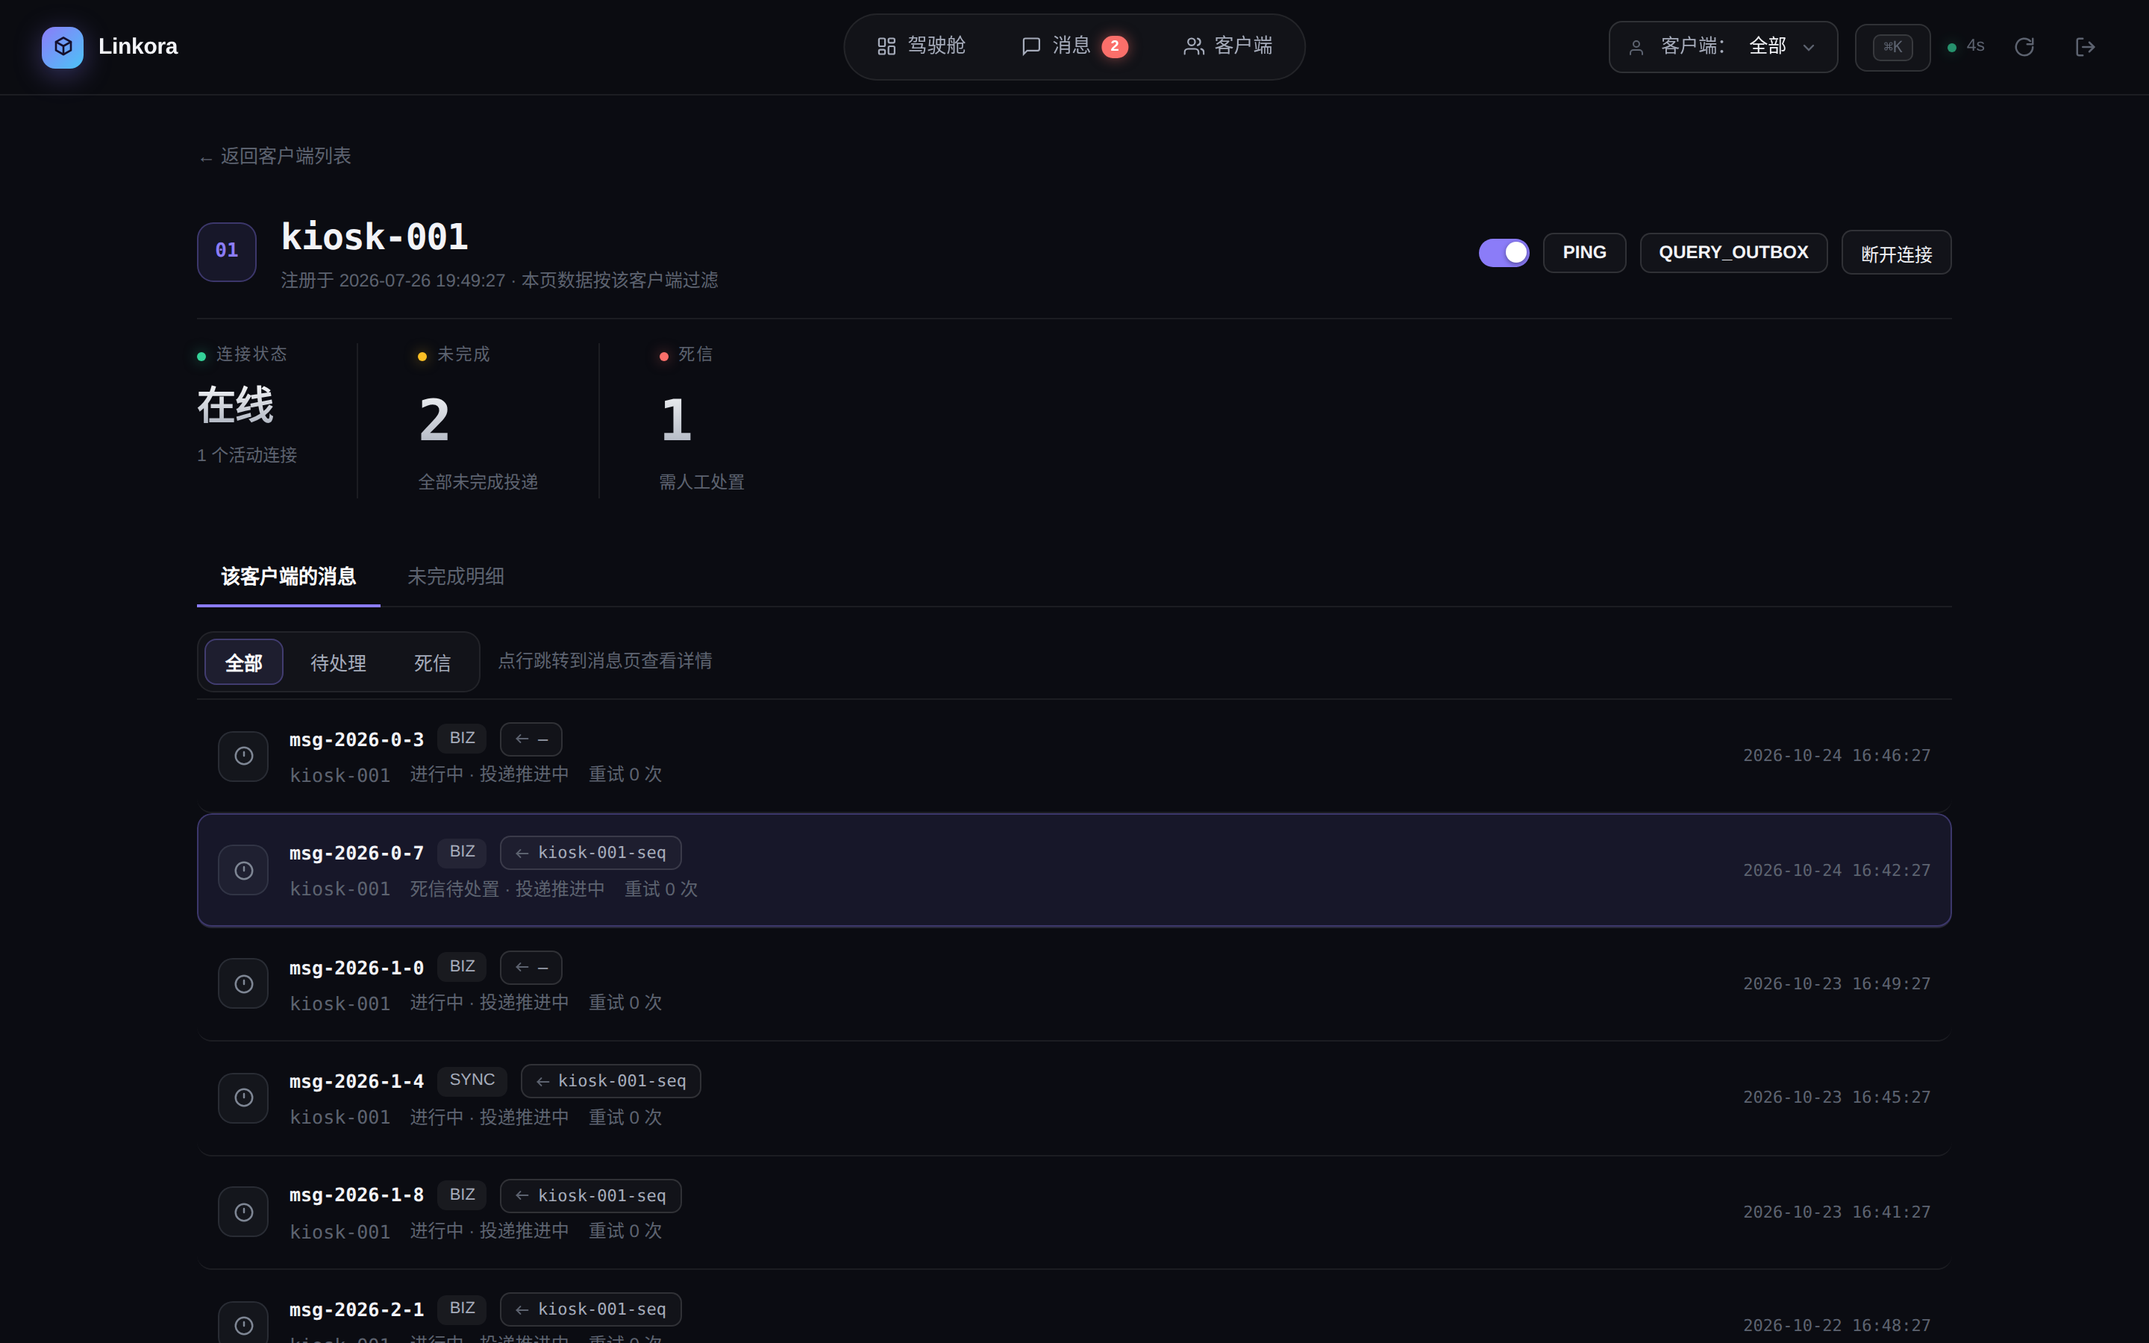
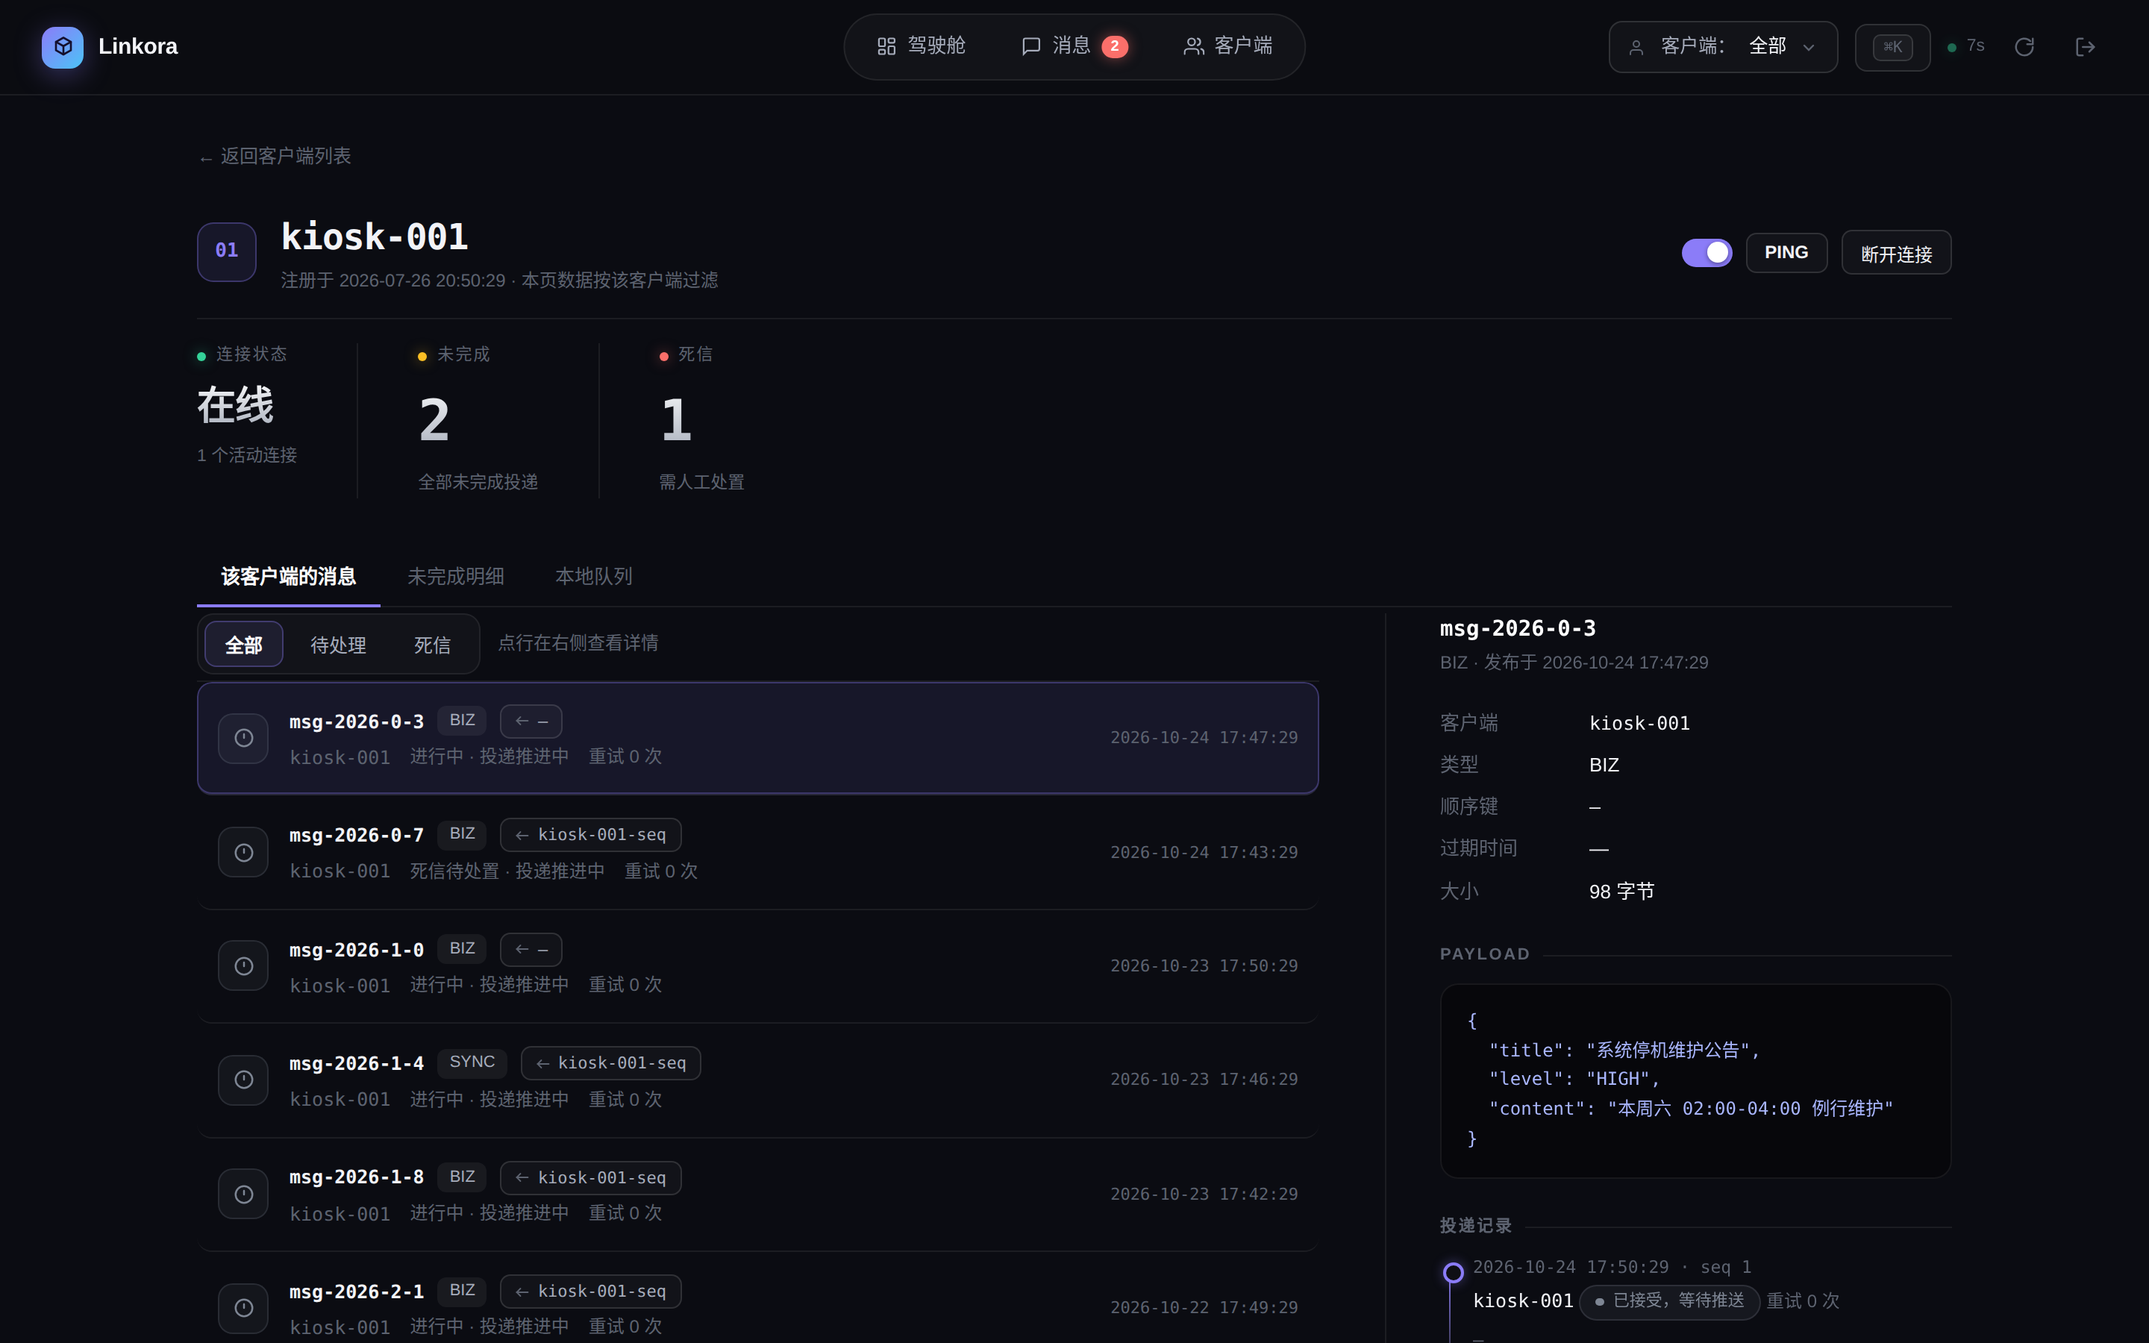
feat：客户端详情页主从双栏——消息与本地队列点行页内看详情，不再跳页
- 「该客户端的消息」与「本地队列」统一改造为左列表 + 右详情（sticky），
  与服务端消息页同一交互范式；未完成明细行也可点开详情
- 本地队列详情：快照字段（状态/重试/大小/时间）+ payload 预览 + 快照语义说明
- 消息/未完成/本地队列三种详情渲染共用同一渲染器；窄屏自动降级覆盖层
- Esc/复制入口对齐

diff --git a/linkora-admin-console/src/main/resources/linkora-admin-console/index.html b/linkora-admin-console/src/main/resources/linkora-admin-console/index.html
@@ -476,33 +476,48 @@ footer.ver{margin-top:30px;text-align:center;font-size:11.5px;color:var(--ink-3)
       <button data-t="unfinished" onclick="setCdTab('unfinished')">未完成明细</button>
       <button data-t="outbox" onclick="setCdTab('outbox')">本地队列</button>
     </div>
-    <div style="display:flex;align-items:center;gap:12px;margin:16px 0 4px" id="cdSegWrap">
-      <div class="seg" id="cdSeg">
-        <button class="on" onclick="setCdSeg('all')">全部</button>
-        <button onclick="setCdSeg('run')">待处理</button>
-        <button class="dead" onclick="setCdSeg('dead')">死信</button>
+    <div class="msg-split" style="margin-top:4px">
+      <div>
+        <div id="cdSegWrap" style="display:flex;align-items:center;gap:12px;margin:0 0 4px">
+          <div class="seg" id="cdSeg">
+            <button class="on" onclick="setCdSeg('all')">全部</button>
+            <button onclick="setCdSeg('run')">待处理</button>
+            <button class="dead" onclick="setCdSeg('dead')">死信</button>
+          </div>
+          <span class="weak">点行在右侧查看详情</span>
+        </div>
+        <div class="rows" id="cdList"></div>
+        <div id="cdUnfinished" style="display:none"></div>
+        <div id="cdOutbox" style="display:none">
+          <div class="filterbar">
+            <select id="obStatus">
+              <option value="">全部状态</option>
+              <option value="PENDING">待发送</option>
+              <option value="SENDING">发送中</option>
+              <option value="SERVER_ACCEPTED">服务端已接受</option>
+              <option value="FAILED">发送失败</option>
+              <option value="DEAD_LETTER">死信</option>
+            </select>
+            <button class="btn btn-primary btn-sm" id="obPullBtn" onclick="pullOutbox()">拉取本地队列</button>
+            <span class="weak" id="obHint">拉取的是客户端在线瞬间的本地快照，不会自动更新</span>
+          </div>
+          <div class="rows" id="obRows"></div>
+          <details style="margin-top:14px"><summary class="weak" style="cursor:pointer">原始回执 JSON</summary>
+            <div class="codeblock" id="obRaw" style="margin-top:10px"></div>
+          </details>
+        </div>
       </div>
-      <span class="weak">点行跳转到消息页查看详情</span>
-    </div>
-    <div class="rows" id="cdList"></div>
-    <div id="cdUnfinished" style="display:none"></div>
-    <div id="cdOutbox" style="display:none">
-      <div class="filterbar">
-        <select id="obStatus">
-          <option value="">全部状态</option>
-          <option value="PENDING">待发送</option>
-          <option value="SENDING">发送中</option>
-          <option value="SERVER_ACCEPTED">服务端已接受</option>
-          <option value="FAILED">发送失败</option>
-          <option value="DEAD_LETTER">死信</option>
-        </select>
-        <button class="btn btn-primary btn-sm" id="obPullBtn" onclick="pullOutbox()">拉取本地队列</button>
-        <span class="weak" id="obHint">拉取的是客户端在线瞬间的本地快照，不会自动更新</span>
+      <div class="md" id="cdMd">
+        <div class="md-head">
+          <div><h3 id="cdMdTitle" onclick="copyText(this.textContent)" title="点击复制">从左侧选择</h3><span class="weak" id="cdMdSub"></span></div>
+          <button class="icon-btn md-close" onclick="closeCdDetail()" title="关闭">
+            <svg viewBox="0 0 24 24" fill="none" stroke="currentColor" stroke-width="2" stroke-linecap="round"><line x1="18" y1="6" x2="6" y2="18"/><line x1="6" y1="6" x2="18" y2="18"/></svg>
+          </button>
+        </div>
+        <div id="cdMdBody">
+          <div class="empty"><p>点行在此查看详情</p></div>
+        </div>
       </div>
-      <div class="rows" id="obRows"></div>
-      <details style="margin-top:14px"><summary class="weak" style="cursor:pointer">原始回执 JSON</summary>
-        <div class="codeblock" id="obRaw" style="margin-top:10px"></div>
-      </details>
     </div>
     <div id="cdCmdResult" class="codeblock" style="display:none;margin-top:14px"></div>
   </div>
@@ -848,7 +863,8 @@ function rowHtml(d, opts){
   } else if (d.state === "RETRYING" || d.state === "FAILED"){
     actions = '<button class="btn btn-outline btn-sm" onclick="event.stopPropagation();skipTask(\'' + esc(d.clientId) + '\',\'' + esc(d.messageId) + '\')">跳过</button>';
   }
-  return '<div class="row' + (currentMsgId === d.messageId ? " sel" : "") + '" onclick="openMessage(\'' + esc(d.messageId) + '\')">'
+  var clickFn = opts.clickFn || "openMessage";
+  return '<div class="row' + (currentMsgId === d.messageId ? " sel" : "") + '" onclick="' + clickFn + '(\'' + esc(d.messageId) + '\')">'
     + '<div class="r-ico ' + cls + '"><svg viewBox="0 0 24 24" fill="none" stroke="currentColor" stroke-width="2" stroke-linecap="round">' + ICONS[cls] + '</svg></div>'
     + '<div class="r-main"><div class="r-title"><span class="mid">' + esc(d.messageId) + '</span>'
     + '<span class="type">' + esc(d.messageType || "—") + '</span>' + chips + blk + '</div>'
@@ -932,6 +948,23 @@ function loadMessages(){
     blockedChips(rows);
   }).catch(showErr);
 }
+function renderDetailInto(prefix, m){
+  document.getElementById(prefix + "Title").textContent = m.messageId;
+  document.getElementById(prefix + "Sub").textContent = (m.messageType || "") + " · 发布于 " + (m.createdAt || "");
+  var pretty = m.payload || "";
+  if (pretty && pretty.indexOf("{") === 0){
+    try { pretty = JSON.stringify(JSON.parse(pretty), null, 2); } catch (e) { /* 保持原文 */ }
+  }
+  var html = '<div class="kv">'
+    + "<dt>客户端</dt><dd class='mono'>" + esc(m.clientId) + "</dd>"
+    + "<dt>类型</dt><dd>" + esc(m.messageType) + "</dd>"
+    + "<dt>顺序键</dt><dd class='mono'>" + esc(m.sequenceKey || "（无顺序键）") + "</dd>"
+    + "<dt>过期时间</dt><dd class='num'>" + esc(m.expiresAt || "不过期") + "</dd>"
+    + "<dt>大小</dt><dd class='num'>" + m.payloadSize + " 字节</dd></div>"
+    + '<div class="sect-lbl">PAYLOAD</div><div class="codeblock">' + esc(pretty) + "</div>"
+    + '<div class="sect-lbl">投递记录</div>' + deliveryTimeline(m.deliveries || []);
+  document.getElementById(prefix + "Body").innerHTML = html;
+}
 function openMessage(id){
   currentMsgId = id;
   var rows = document.querySelectorAll("#msgList .row");
@@ -944,23 +977,33 @@ function openMessage(id){
   document.getElementById("mdBody").innerHTML = '<div class="skeleton" style="width:80%"></div>';
   if (window.matchMedia("(max-width:1100px)").matches) document.getElementById("md").classList.add("on");
   api("api/messages/" + encodeURIComponent(id)).then(function(m){
-    document.getElementById("mdSub").textContent = (m.messageType || "") + " · 发布于 " + (m.createdAt || "");
-    var pretty = m.payload || "";
-    if (pretty && pretty.indexOf("{") === 0){
-      try { pretty = JSON.stringify(JSON.parse(pretty), null, 2); } catch (e) { /* 保持原文 */ }
-    }
-    var html = '<div class="kv">'
-      + "<dt>客户端</dt><dd class='mono'>" + esc(m.clientId) + "</dd>"
-      + "<dt>类型</dt><dd>" + esc(m.messageType) + "</dd>"
-      + "<dt>顺序键</dt><dd class='mono'>" + esc(m.sequenceKey || "（无顺序键）") + "</dd>"
-      + "<dt>过期时间</dt><dd class='num'>" + esc(m.expiresAt || "不过期") + "</dd>"
-      + "<dt>大小</dt><dd class='num'>" + m.payloadSize + " 字节</dd></div>"
-      + '<div class="sect-lbl">PAYLOAD</div><div class="codeblock">' + esc(pretty) + "</div>"
-      + '<div class="sect-lbl">投递记录</div>' + deliveryTimeline(m.deliveries || []);
-    document.getElementById("mdBody").innerHTML = html;
+    renderDetailInto("md", m);
   }).catch(function(e){
     document.getElementById("mdBody").innerHTML = '<div class="empty"><p>' + esc(e.error || "加载失败") + "</p></div>";
   });
+}
+/* 客户端详情页内查看消息详情（不跳页） */
+function openMessageHere(id){
+  currentMsgId = id;
+  var rows = document.querySelectorAll("#cdList .row");
+  for (var i = 0; i < rows.length; i++){
+    var oc = rows[i].getAttribute("onclick") || "";
+    rows[i].classList.toggle("sel", oc.indexOf("'" + id + "'") >= 0);
+  }
+  document.getElementById("cdMdTitle").textContent = id;
+  document.getElementById("cdMdSub").textContent = "";
+  document.getElementById("cdMdBody").innerHTML = '<div class="skeleton" style="width:80%"></div>';
+  if (window.matchMedia("(max-width:1100px)").matches) document.getElementById("cdMd").classList.add("on");
+  api("api/messages/" + encodeURIComponent(id)).then(function(m){
+    renderDetailInto("cdMd", m);
+  }).catch(function(e){
+    document.getElementById("cdMdBody").innerHTML = '<div class="empty"><p>' + esc(e.error || "加载失败") + "</p></div>";
+  });
+}
+function closeCdDetail(){
+  if (window.matchMedia("(max-width:1100px)").matches){
+    document.getElementById("cdMd").classList.remove("on");
+  }
 }
 function viewMessage(id){
   go("messages");
@@ -1079,8 +1122,10 @@ function setCdTab(t){
   document.getElementById("cdList").style.display = t === "messages" ? "" : "none";
   document.getElementById("cdUnfinished").style.display = t === "unfinished" ? "" : "none";
   document.getElementById("cdOutbox").style.display = t === "outbox" ? "" : "none";
+  document.getElementById("cdMd").style.visibility = "hidden";
   document.getElementById("cdCmdResult").style.display = "none";
   if (t === "unfinished") loadCdUnfinished();
+  if (t === "messages" || t === "outbox") document.getElementById("cdMd").style.visibility = "visible";
 }
 function renderCdBody(c){
   var listEl = document.getElementById("cdList");
@@ -1109,7 +1154,7 @@ function renderCdBody(c){
   Promise.all(jobs).then(function(groups){
     var rows = [].concat.apply([], groups);
     rows.sort(function(a, b){ return (b.updatedAt || "").localeCompare(a.updatedAt || ""); });
-    listEl.innerHTML = rows.length ? rows.map(function(d){ return rowHtml(d, {blocked:cdSeg !== "all"}); }).join("")
+    listEl.innerHTML = rows.length ? rows.map(function(d){ return rowHtml(d, {blocked:cdSeg !== "all", clickFn:"openMessageHere"}); }).join("")
       : '<div class="empty"><p>没有符合条件的记录</p></div>';
     blockedChips(rows.filter(function(d){ return d.sequenceKey; }));
   }).catch(showErr);
@@ -1119,7 +1164,7 @@ function loadCdUnfinished(){
   box.innerHTML = '<div class="skeleton" style="width:60%"></div>';
   api("api/clients/" + encodeURIComponent(cdCurrent) + "/unfinished").then(function(list){
     box.innerHTML = list.length ? "<table style='width:100%;border-collapse:collapse'><tbody>" + list.map(function(d){
-      return "<tr style='border-bottom:1px solid var(--hair)'><td style='padding:12px' class='mono'>" + esc(d.messageId) + "</td><td style='padding:12px'>"
+      return "<tr style='border-bottom:1px solid var(--hair);cursor:pointer' onclick=\"openMessageHere('" + esc(d.messageId) + "')\"><td style='padding:12px' class='mono'>" + esc(d.messageId) + "</td><td style='padding:12px'>"
         + stPill(d.state, d.stateText || d.state) + "</td>"
         + "<td style='padding:12px' class='num'>" + d.retryCount + " 次</td>"
         + "<td style='padding:12px' class='weak num'>" + esc(d.updatedAt || "") + "</td></tr>";
@@ -1201,11 +1246,12 @@ function pullOutbox(){
   }
 }
 function renderOutbox(rows){
+  obData = rows || [];
   var el = document.getElementById("obRows");
-  el.innerHTML = rows.length ? rows.map(function(r){
+  el.innerHTML = obData.length ? obData.map(function(r, idx){
     var cls = obCls(r.statusText);
     var dead = r.statusText && r.statusText.indexOf("死信") >= 0;
-    return '<div class="row"><div class="r-ico ' + cls + '"><svg viewBox="0 0 24 24" fill="none" stroke="currentColor" stroke-width="2" stroke-linecap="round">' + ICONS[cls] + '</svg></div>'
+    return '<div class="row' + (currentMsgId === r.messageId ? " sel" : "") + '" onclick="openOutboxDetail(' + idx + ')"><div class="r-ico ' + cls + '"><svg viewBox="0 0 24 24" fill="none" stroke="currentColor" stroke-width="2" stroke-linecap="round">' + ICONS[cls] + '</svg></div>'
       + '<div class="r-main"><div class="r-title"><span class="mid">' + esc(r.messageId) + '</span>'
       + '<span class="type">' + esc(r.messageType || "—") + '</span>'
       + stPill(dead ? "DEAD_LETTER" : "ACCEPTED", r.statusText) + '</div>'
@@ -1214,10 +1260,36 @@ function renderOutbox(rows){
       + '<span class="num">' + r.payloadSize + ' 字节</span></div></div>'
       + '<span class="r-time">' + esc(r.updatedAt || r.createdAt || "") + '</span>'
       + (dead ? '<div class="r-acts">'
-        + '<button class="btn btn-tint btn-sm" onclick="retryOutbox(\'' + esc(r.messageId) + '\')">重发</button>'
-        + '<button class="btn btn-danger-tint btn-sm" onclick="discardOutbox(\'' + esc(r.messageId) + '\')">放弃</button></div>' : "")
+        + '<button class="btn btn-tint btn-sm" onclick="event.stopPropagation();retryOutbox(\'' + esc(r.messageId) + '\')">重发</button>'
+        + '<button class="btn btn-danger-tint btn-sm" onclick="event.stopPropagation();discardOutbox(\'' + esc(r.messageId) + '\')">放弃</button></div>' : "")
       + '</div>';
   }).join("") : '<div class="empty"><p>本地队列为空（当前过滤条件下）</p></div>';
+}
+var obData = [];
+function openOutboxDetail(idx){
+  var r = obData[idx];
+  if (!r) return;
+  currentMsgId = r.messageId;
+  var orows = document.querySelectorAll("#obRows .row");
+  for (var i = 0; i < orows.length; i++) orows[i].classList.toggle("sel", i === idx);
+  document.getElementById("cdMdTitle").textContent = r.messageId;
+  document.getElementById("cdMdSub").textContent = (r.messageType || "") + " · 本地队列快照";
+  var pretty = r.payloadPreview || "";
+  if (pretty.indexOf("{") === 0){
+    try { pretty = JSON.stringify(JSON.parse(pretty), null, 2); } catch (e) { /* 保持原文 */ }
+  }
+  document.getElementById("cdMdBody").innerHTML = '<div class="kv">'
+    + "<dt>客户端</dt><dd class='mono'>" + esc(cdCurrent) + "</dd>"
+    + "<dt>类型</dt><dd>" + esc(r.messageType || "—") + "</dd>"
+    + "<dt>状态</dt><dd>" + stPill(r.statusText.indexOf("死信") >= 0 ? "DEAD_LETTER" : "ACCEPTED", r.statusText) + "</dd>"
+    + "<dt>重试</dt><dd class='num'>" + r.retryCount + " 次</dd>"
+    + "<dt>大小</dt><dd class='num'>" + r.payloadSize + " 字节</dd>"
+    + "<dt>创建时间</dt><dd class='num'>" + esc(r.createdAt || "—") + "</dd>"
+    + "<dt>更新时间</dt><dd class='num'>" + esc(r.updatedAt || "—") + "</dd></div>"
+    + (r.lastError && r.lastError !== "—" ? '<div class="sect-lbl">最近错误</div><div class="codeblock">' + esc(r.lastError) + "</div>" : "")
+    + '<div class="sect-lbl">PAYLOAD 预览</div><div class="codeblock">' + esc(pretty) + "</div>"
+    + '<div class="weak" style="margin-top:14px">以上为客户端本地队列快照数据（拉取于本次拉取时间），无服务端投递时间线。</div>';
+  if (window.matchMedia("(max-width:1100px)").matches) document.getElementById("cdMd").classList.add("on");
 }
 function retryOutbox(messageId){
   confirmOp("重发上行死信", messageId + " 将由客户端从本地队列重新向上行发送。", "重发",
@@ -1276,7 +1348,7 @@ document.addEventListener("keydown", function(e){
     document.getElementById("cmdk").classList.contains("on") ? closeCmdk() : openCmdk();
     return;
   }
-  if (e.key === "Escape"){ closeCmdk(); closeMsgDetail(); closeModal(); return; }
+  if (e.key === "Escape"){ closeCmdk(); closeMsgDetail(); closeCdDetail(); closeModal(); return; }
   var cmdkOn = document.getElementById("cmdk").classList.contains("on");
   if (cmdkOn && (e.key === "ArrowDown" || e.key === "ArrowUp" || e.key === "Enter")){
     e.preventDefault();
@@ -1331,6 +1403,10 @@ function copyText(s){
 document.getElementById("mdTitle").addEventListener("click", function(){
   var id = this.textContent;
   if (id && id !== "从左侧选择消息") copyText(id);
+});
+document.getElementById("cdMdTitle").addEventListener("click", function(){
+  var id = this.textContent;
+  if (id && id !== "从左侧选择") copyText(id);
 });
 function toast(msg, kind){
   var t = document.createElement("div");
